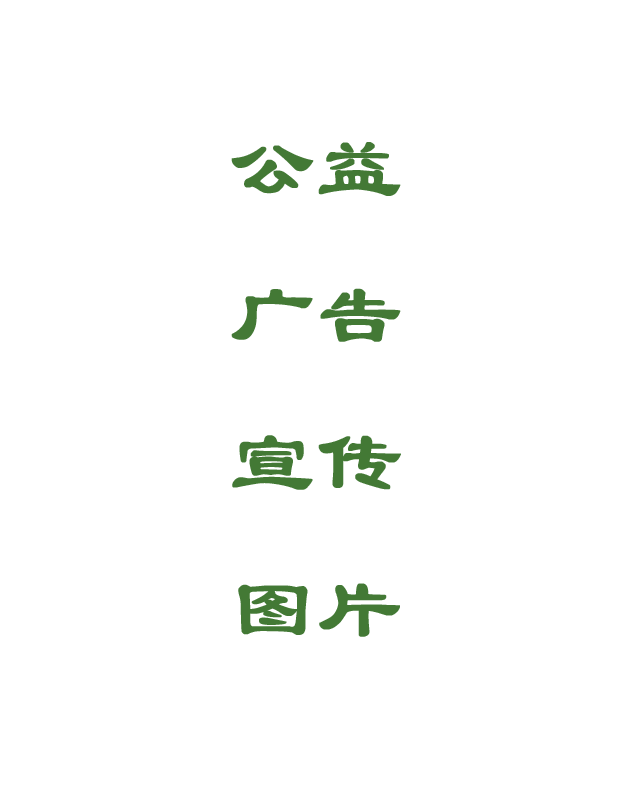
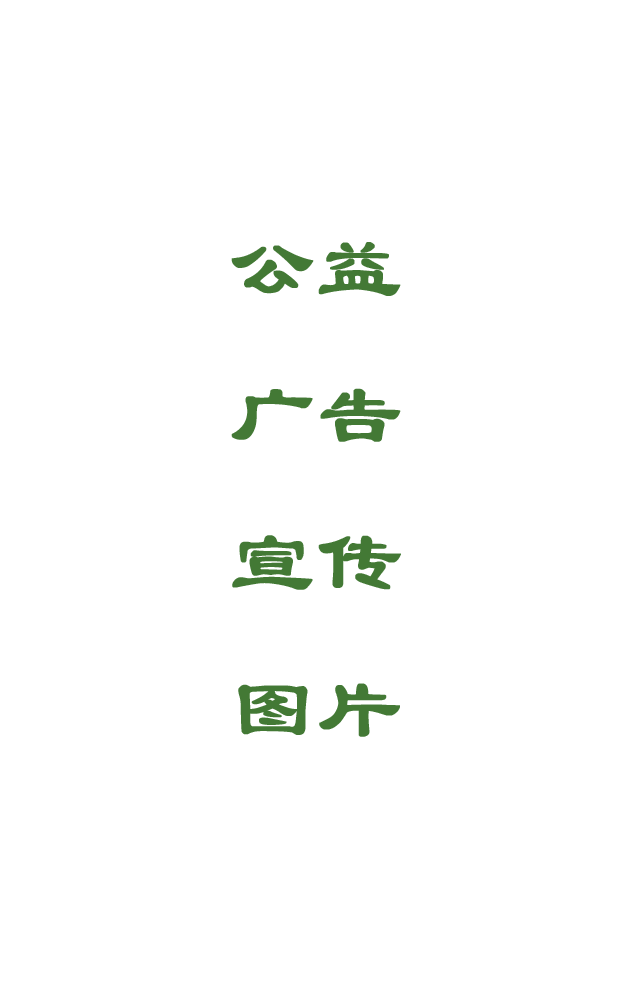
ui

diff --git a/src/main/java/com/bottle/ui/components/player/sub/PlayerPictureBannerPanel.java b/src/main/java/com/bottle/ui/components/player/sub/PlayerPictureBannerPanel.java
@@ -23,17 +23,18 @@ public class PlayerPictureBannerPanel extends JPanel {
 	private int height = 0;
 	private int weight = 0;
 	private Timer changePictureTimer = new Timer();
-	public PlayerPictureBannerPanel() {
+	public PlayerPictureBannerPanel(int width, int height) {
 		setLayout(null);
 		
 		List<String> imageNameList = new ArrayList<String>();
 		imageNameList.add("playerbanner.png");
-		imageNameList.add("greenearth.jpg");
+		imageNameList.add("greenearth625x1000.png");
+		imageNameList.add("greenword625x1000.png");
 		setImageFileNameList(imageNameList);
 		
 		curFilename = imageNameList.get(0);
-		setWeight(625);
-		setHeight(800);	
+		setWeight(width);
+		setHeight(height);	
 	}
 	
 	public void initChangeBannerPictureTimeThread() {
